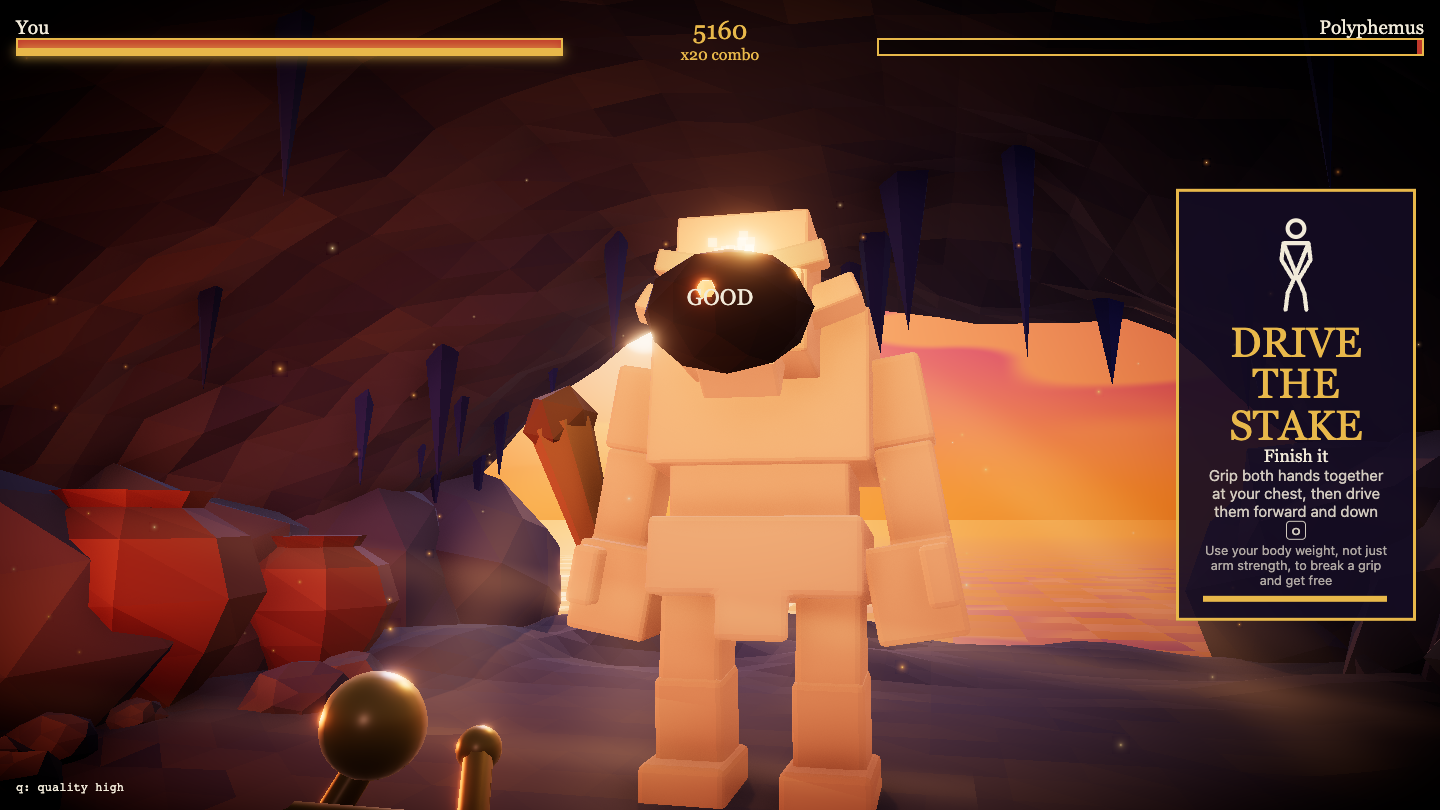
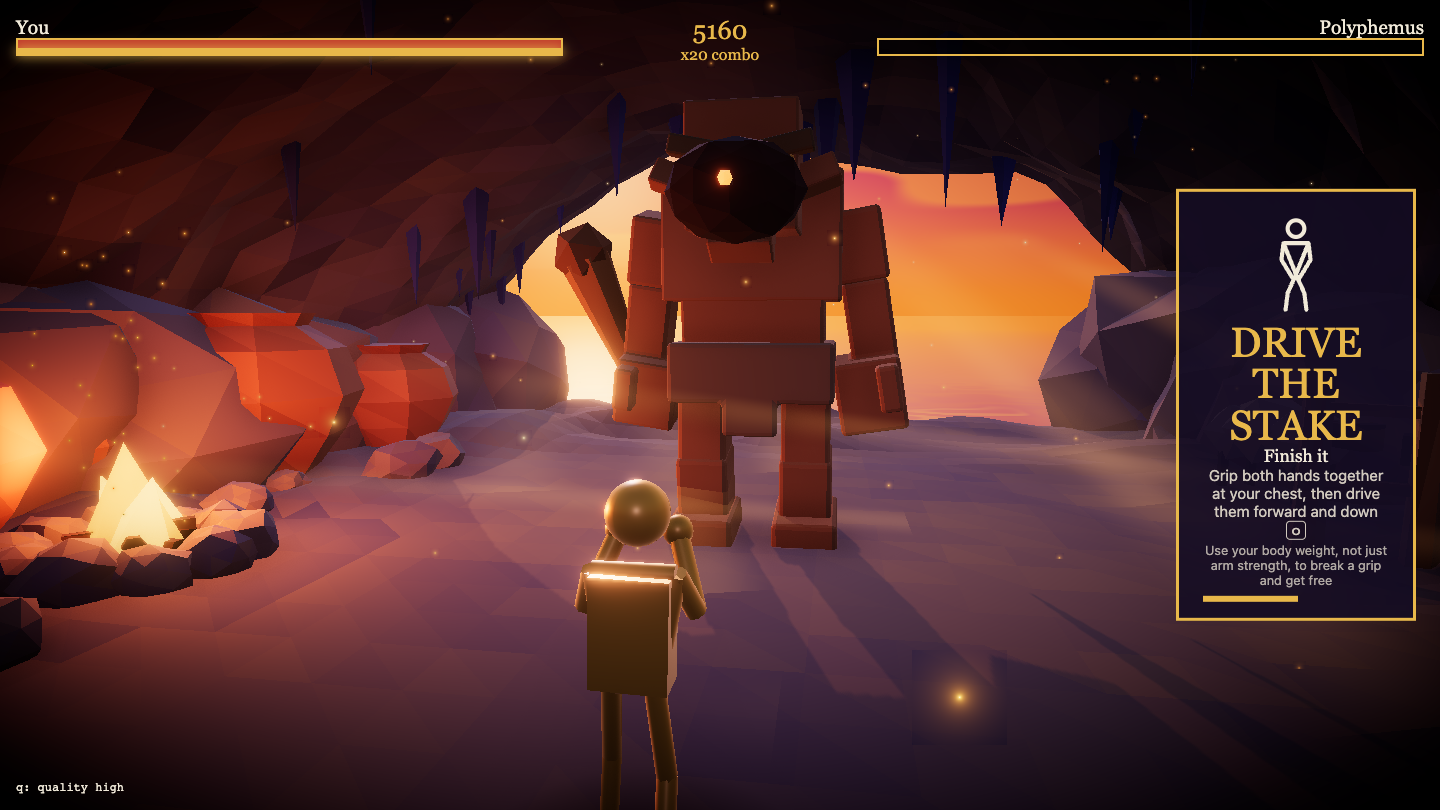
Cave mouth review fixes: soft sea ripples, fallback environment when the HDRI fails, finisher note
The sea showed checker tiles at low grazing angles because ripple cells were hashed per cell; they are now smooth noise and fade at grazing angles. If the sky HDRI fails to load, the hero went black; the error boundary now falls back to a small hand-built environment. The giant's pale look in the finisher is only the 0.4 s killing-blow flash, so it stays.

diff --git a/src/render/arena/cave/Sea.tsx b/src/render/arena/cave/Sea.tsx
@@ -1,5 +1,5 @@
 // The sea outside the cave: a flat plane with a small shader. Deep violet-blue near the shore, fading to the sky's
-// own orange haze at the horizon, with a glittering sun path and (on high) slowly shifting faceted ripples.
+// own orange haze at the horizon, with a glittering sun path and (on high) slowly shifting soft ripples.
 import { useFrame } from "@react-three/fiber";
 import { useMemo, useRef } from "react";
 import type { ShaderMaterial } from "three";
@@ -25,15 +25,21 @@ uniform vec3 uGlow;
 varying vec3 vWorld;
 ${SKY_GLSL}
 float hash(vec2 p) { return fract(sin(dot(p, vec2(127.1, 311.7))) * 43758.5453); }
+float vnoise(vec2 p) {
+  vec2 i = floor(p), f = fract(p);
+  f = f * f * (3.0 - 2.0 * f);
+  return mix(mix(hash(i), hash(i + vec2(1.0, 0.0)), f.x), mix(hash(i + vec2(0.0, 1.0)), hash(i + 1.0), f.x), f.y);
+}
 
 void main() {
   vec3 toEye = cameraPosition - vWorld;
   float dist = length(toEye);
   vec3 view = toEye / dist;
-  // Faceted ripples: each cell tilts the surface a little, and the tilt drifts over time.
-  vec2 cell = floor(vWorld.xz * 0.45 + vec2(uTime * 0.05, 0.0));
-  float a = hash(cell) * 6.2831 + uTime * 0.6;
-  vec2 tilt = vec2(cos(a), sin(a)) * (0.03 + hash(cell + 3.0) * 0.05) * uRipples * smoothstep(120.0, 15.0, dist);
+  // Soft ripples: smooth noise tilts the surface, and the tilt fades at grazing angles and far away, so no tiles show.
+  vec2 q = vWorld.xz * 0.45 + vec2(uTime * 0.05, 0.0);
+  float a = vnoise(q) * 12.566 + uTime * 0.6;
+  float amp = (0.03 + vnoise(q + 3.0) * 0.05) * uRipples * smoothstep(120.0, 15.0, dist) * smoothstep(0.05, 0.4, view.y);
+  vec2 tilt = vec2(cos(a), sin(a)) * amp;
   vec3 normal = normalize(vec3(tilt.x, 1.0, tilt.y));
   vec3 mirrored = reflect(-view, normal);
   float sunDot = max(dot(mirrored, uSun), 0.0);

diff --git a/src/render/Atmosphere.tsx b/src/render/Atmosphere.tsx
@@ -1,18 +1,28 @@
 // Light and air that belong to the whole fight, whatever the arena: the cave HDRI for reflections,
 // a cool rim light that outlines the monster, and drifting embers.
-import { Environment, Sparkles } from "@react-three/drei";
+import { Environment, Lightformer, Sparkles } from "@react-three/drei";
 import { Suspense } from "react";
 import { ErrorBoundary } from "./ErrorBoundary";
 import { useQualityLevel } from "./quality";
 
 const HDRI = `${import.meta.env.BASE_URL}hdri/small_cave_1k.hdr`;
 
+function FallbackEnvironment() {
+  return (
+    <Environment resolution={64} environmentIntensity={2}>
+      <Lightformer form="rect" color="#ffa860" intensity={10} position={[0, 2, -8]} scale={[12, 5, 1]} />
+      <Lightformer form="rect" color="#9a8cd0" intensity={4} position={[0, 6, 4]} rotation={[Math.PI / 2, 0, 0]} scale={[12, 12, 1]} />
+      <Lightformer form="rect" color="#8f86ff" intensity={3} position={[-6, 2, 4]} rotation={[0, Math.PI / 2, 0]} scale={[8, 4, 1]} />
+    </Environment>
+  );
+}
+
 export function Atmosphere({ sky }: { sky?: { readonly hdri: string; readonly yaw: number } | undefined }) {
   const high = useQualityLevel() === "high";
   return (
     <>
-      {/* A missing HDRI only loses reflections. */}
-      <ErrorBoundary label="hdri" fallback={null}>
+      {/* A missing HDRI falls back to a small hand-built environment, so metal still has something to reflect. */}
+      <ErrorBoundary label="hdri" fallback={<FallbackEnvironment />}>
         <Suspense fallback={null}>
           <Environment
             files={sky?.hdri ?? HDRI}

diff --git a/docs/models.md b/docs/models.md
@@ -108,10 +108,12 @@ Every model or set piece brought into the fight, looked at in the running Polyph
 | Sea | built in code shader, `cave/Sea.tsx` | ours | 1 quad | y=-1.5, runs to the horizon, reflects the same sky function as the dome | shader time | resized | Now mirrors the dusk sky so the horizon is seamless. Earlier: checker pattern showed at the horizon; ripple tilt softened and faded with distance. Low quality drops the ripples. |
 | Light shafts, dust motes | built in code | ours | 6 beams | high only | pulse | kept | Gone on low as required. |
 | Hero (boxer, knight) | existing in repo, not mine | n/a | n/a | about 1.8 m | existing | not changed | Boxer seen in every shot, knight (`?model=giant&hero=knight`) at idle only (`cave-mouth-knight.png`). Both stand on the floor, face the giant, scale right. Nothing sits between the camera and the hero. |
-| Polyphemus | existing in repo, not mine | n/a | n/a | about 5 m | existing | not changed | Seen with `?model=giant` (GLB) through idle, every windup (club left/right, grab, boulder), strikes, Blinded, finisher, death and loss. Head and raised club clear the roof (7 m). The giant looks pale and bright against the sunset during the finisher and fall; that is its material, owned by another agent. |
+| Polyphemus | existing in repo, not mine | n/a | n/a | about 5 m | existing | not changed | Seen with `?model=giant` (GLB) through idle, every windup (club left/right, grab, boulder), strikes, Blinded, finisher, death and loss. Head and raised club clear the roof (7 m). The giant turns pale peach for about 0.4 s when the killing blow lands (a 70-unit point light from HitEffects plus the hit flash); the rest of the finisher it is dark rust (re-checked in `cave-mouth-finisher.png`). Left as deliberate impact feedback. |
 
 Not brought in and not tested in the fight: the Poly Haven photoscans (boulder_01, stone_fire_pit, antique_ceramic_vase_01, rock_face_01, namaqualand_cliff_02, mountainside, marble_bust) and the small_harbour_sunset HDRI. Photo textures on large shapes break the flat-shaded look, so the set pieces are built in code instead.
 
 Cost: measured before the sky change at about 172 draw calls and 30.9k triangles at high, 54 calls and 17.3k at low. The dome adds one draw call and the HDRI background is gone, so it should be about the same; not re-measured.
 
 Not tested: a low-quality finisher shot, the knight past idle, close-range sheep, the live webcam path. The Bloom threshold change (0.85 to 1.0) is shared by every arena and was only looked at here. The 404 console errors seen in every run predate this change and were not traced.
+
+Review fixes: the sea ripple now uses smooth noise and fades at grazing angles (no checker tiles in the finisher orbit); with the HDRI blocked the hero keeps light from a hand-built fallback environment (`cave-mouth-no-hdri.png`), though it is dimmer than with the HDRI.
